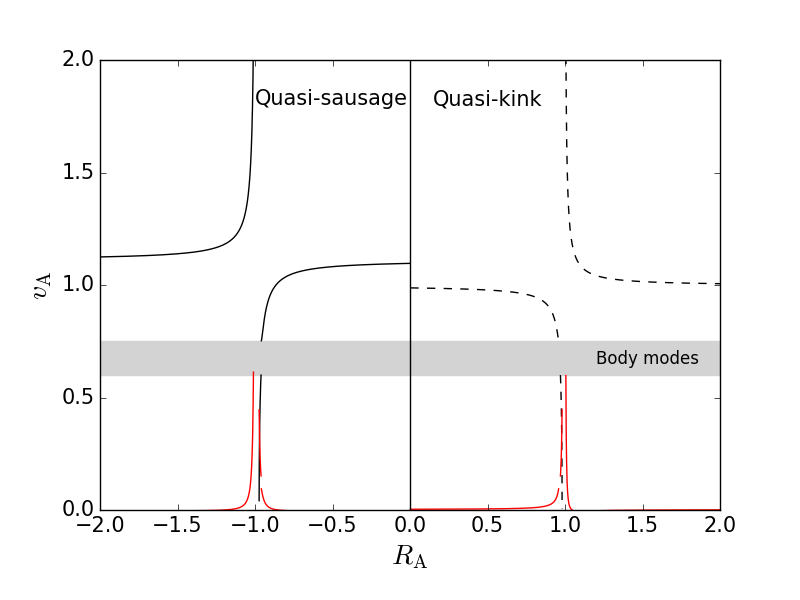
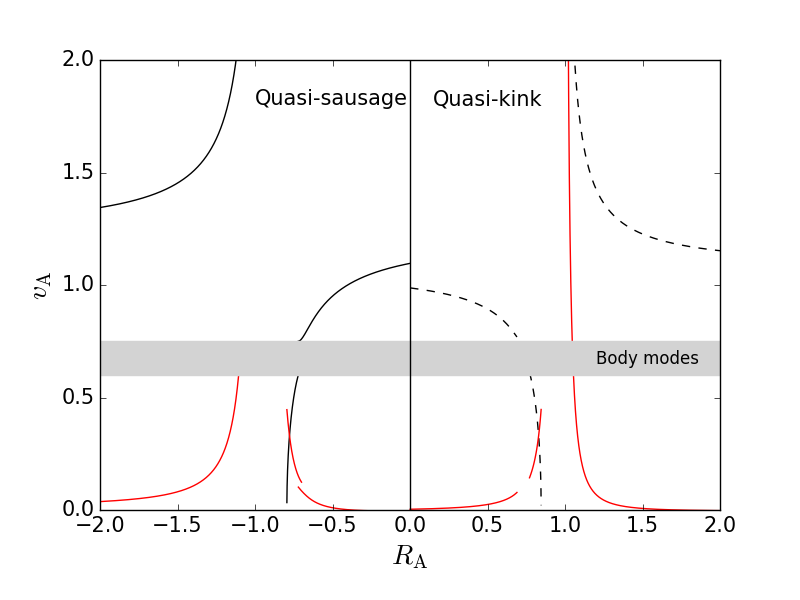
sorted out RA but need to do DM

diff --git a/sms-vA.py b/sms-vA.py
@@ -45,18 +45,15 @@ show_scatter_RA = False
 show_scatter_RA_2 = False
 show_scatter_DM = False
 show_scatter_DM_2 = False
-
-show_RA = True
-#show_DM = True
+#
+#show_RA = True
+show_DM = True
 #show_scatter_RA = True
 #show_scatter_RA_2 = True
 #show_scatter_DM = True
 #show_scatter_DM_2 = True
 
 ###############################################################################
-
-error_string_kink_saus = "mode must be 'kink' or 'saus', duh!"
-error_string_subscript = "subscript argument must be 1 or 2"
 
 def m0(W, vA):
     m0function = sc.sqrt((c0**2-W**2)*(vA**2-W**2)*((c0**2+vA**2)*(cT(vA)**2-W**2))**(-1))
@@ -70,19 +67,31 @@ def m2(W):
     m2function = sc.sqrt(1-W**2*c2**(-2))
     return m2function
 
+def lamb0(W, vA):
+    return -(vA**2-W**2)*1.j/(m0(W, vA)*W)
+
+def lamb1(W):
+    return R1*W*1.j/m1(W)
+    
+def lamb2(W):
+    return R2*W*1.j/m2(W)
+
+error_string_kink_saus = "mode must be 'kink' or 'saus', duh!"
+error_string_subscript = "subscript argument must be 1 or 2"
+
 def disp_rel_sym(W, K, vA, mode, subscript):
     if subscript == 1:
         if mode in kink_mode_options:
-            dispfunction = (vA**2 - W**2)*m1(W)*sc.tanh(m0(W,vA)*K) - R1*W**2*m0(W,vA)
+            dispfunction = lamb0(W, vA) * sc.tanh(m0(W, vA) * K) + lamb1(W)
         elif mode in saus_mode_options:
-            dispfunction = (vA**2 - W**2)*m1(W) - R1*W**2*m0(W,vA)*sc.tanh(m0(W,vA)*K)
+            dispfunction = lamb0(W, vA) + lamb1(W) * sc.tanh(m0(W, vA) * K)
         else:
             print(error_string_kink_saus)
     elif subscript == 2:
         if mode in kink_mode_options:
-            dispfunction = (vA**2 - W**2)*m2(W)*sc.tanh(m0(W,vA)*K) - R1*W**2*m0(W,vA)
+            dispfunction = lamb0(W, vA) * sc.tanh(m0(W, vA) * K) + lamb2(W)
         elif mode in saus_mode_options:
-            dispfunction = (vA**2 - W**2)*m2(W) - R1*W**2*m0(W,vA)*sc.tanh(m0(W,vA)*K)
+            dispfunction = lamb0(W, vA) + lamb2(W) * sc.tanh(m0(W, vA) * K)
         else:
             print(error_string_kink_saus)
     else:
@@ -90,63 +99,182 @@ def disp_rel_sym(W, K, vA, mode, subscript):
     return dispfunction
     
 def disp_rel_asym(W, K, vA):
-    return ((W**4 * m0(W,vA)**2 * R1 * R2 + (vA**2 - W**2)**2 * m1(W) * m2(W) -
-            0.5 * m0(W,vA) * W**2 * (vA**2 - W**2) * (R2 * m1(W) + R1 * m2(W)) *
-            (sc.tanh(m0(W,vA) * K) + (sc.tanh(m0(W,vA) * K))**(-1))) /
+    return ((W**4 * m0(W, vA)**2 * R1 * R2 + (vA**2 - W**2)**2 * m1(W) * m2(W) -
+            0.5 * m0(W, vA) * W**2 * (vA**2 - W**2) * (R2 * m1(W) + R1 * m2(W)) *
+            (sc.tanh(m0(W, vA) * K) + (sc.tanh(m0(W, vA) * K))**(-1))) /
             (vA**2 - W**2) * (c0**2 - W**2) * (cT(vA)**2 - W**2))
-
-def disp_rel_test(W, K, vA):
-    return disp_rel_sym(W, K, vA, 'saus',2) / disp_rel_sym(W, K, vA, 'saus',1) + disp_rel_sym(W, K, vA, 'kink',2) * disp_rel_sym(W, K, vA, 'kink',1)
-    
+            
 def amp_ratio(W, K, vA, mode):
     if mode in kink_mode_options:
-        ampfunction = m2(W)*disp_rel_sym(W,K,vA,'saus',1) / (m1(W)*disp_rel_sym(W,K,vA,'saus',2))
+        ampfunction = disp_rel_sym(W, K, vA, 'saus', 1) / disp_rel_sym(W, K, vA, 'saus', 2)
     elif mode in saus_mode_options:
-        ampfunction = - m2(W)*disp_rel_sym(W,K,vA,'kink',1) / (m1(W)*disp_rel_sym(W,K,vA,'kink',2))
+        ampfunction = - disp_rel_sym(W, K, vA, 'kink', 1) / disp_rel_sym(W, K, vA, 'kink', 2)
     else:
         print(error_string_kink_saus)
     return ampfunction
-    
+
 def amp_ratio_func(W, K, mode, vA, RA):
     return amp_ratio(W, K, vA, mode) - RA
-
+    
 def amp_ratio_2(W, K, vA, mode):
     if mode in kink_mode_options:
-        ampfunction = - m2(W)*disp_rel_sym(W,K,vA,'kink',1) / (m1(W)*disp_rel_sym(W,K,vA,'kink',2))
+        ampfunction = - disp_rel_sym(W,K,vA,'kink',1) / disp_rel_sym(W,K,vA,'kink',2)
     elif mode in saus_mode_options:
-        ampfunction = m2(W)*disp_rel_sym(W,K,vA,'saus',1) / (m1(W)*disp_rel_sym(W,K,vA,'saus',2))
+        ampfunction = disp_rel_sym(W,K,vA,'saus',1) / disp_rel_sym(W,K,vA,'saus',2)
     else:
         print(error_string_kink_saus)
     return ampfunction
     
 def amp_ratio_func_2(W, K, mode, vA, RA):
-    return amp_ratio_2(W, K, vA, mode) - RA
+    return amp_ratio_2(W, K, vA, mode) - RA    
     
 def min_pert_shift(W, K, vA, mode):
     if mode in kink_mode_options:
-        shiftfunction = (1 / m0(W,vA)) * np.arctanh(- disp_rel_sym(W,K,vA,'kink',1) / disp_rel_sym(W,K,vA,'saus',1))
+        shiftfunction = (1 / m0(W,vA)) * sc.arctanh(- disp_rel_sym(W,K,vA,'saus',1) / disp_rel_sym(W,K,vA,'kink',1))
     elif mode in saus_mode_options:
         # recall that arccoth(x) = arctanh(1/x)
-        shiftfunction = (1 / m0(W,vA)) * np.arctanh(- disp_rel_sym(W,K,vA,'saus',1) / disp_rel_sym(W,K,vA,'kink',1))
+        shiftfunction = (1 / m0(W,vA)) * sc.arctanh(- disp_rel_sym(W,K,vA,'kink',1) / disp_rel_sym(W,K,vA,'saus',1))
     else:
         print(error_string_kink_saus)
     return shiftfunction
     
 def min_pert_shift_func(W, K, mode, vA, DM):
-    return min_pert_shift(W, K, vA, mode) - DM
+    return min_pert_shift(W, K, vA, mode) - DM 
     
 def min_pert_shift_2(W, K, vA, mode):
     if mode in kink_mode_options:
-        shiftfunction = (1 / m0(W,vA)) * np.arctanh(disp_rel_sym(W,K,vA,'kink',2) / disp_rel_sym(W,K,vA,'saus',2))
+        shiftfunction = (1 / m0(W,vA)) * sc.arctanh(disp_rel_sym(W,K, vA,'saus',2) / disp_rel_sym(W,K, vA,'kink',2))
     elif mode in saus_mode_options:
         # recall that arccoth(x) = arctanh(1/x)
-        shiftfunction = (1 / m0(W,vA)) * np.arctanh(disp_rel_sym(W,K,vA,'saus',2) / disp_rel_sym(W,K,vA,'kink',2))
+        shiftfunction = (1 / m0(W, vA)) * sc.arctanh(disp_rel_sym(W,K, vA,'kink',2) / disp_rel_sym(W,K, vA,'saus',2))
     else:
         print(error_string_kink_saus)
     return shiftfunction
-    
+
 def min_pert_shift_func_2(W, K, mode, vA, DM):
-    return min_pert_shift_2(W, K, vA, mode) - DM
+    return min_pert_shift_2(W, K, vA, mode) - DM 
+
+
+
+
+
+
+
+
+
+
+
+
+
+
+
+
+
+
+
+
+
+
+
+
+
+
+
+
+
+
+#error_string_kink_saus = "mode must be 'kink' or 'saus', duh!"
+#error_string_subscript = "subscript argument must be 1 or 2"
+#
+#def m0(W, vA):
+#    m0function = sc.sqrt((c0**2-W**2)*(vA**2-W**2)*((c0**2+vA**2)*(cT(vA)**2-W**2))**(-1))
+#    return m0function
+#    
+#def m1(W):
+#    m1function = sc.sqrt(1-W**2*c2**(-2)*R1*R2**(-1))
+#    return m1function
+#
+#def m2(W):
+#    m2function = sc.sqrt(1-W**2*c2**(-2))
+#    return m2function
+#
+#def disp_rel_sym(W, K, vA, mode, subscript):
+#    if subscript == 1:
+#        if mode in kink_mode_options:
+#            dispfunction = (vA**2 - W**2)*m1(W)*sc.tanh(m0(W,vA)*K) - R1*W**2*m0(W,vA)
+#        elif mode in saus_mode_options:
+#            dispfunction = (vA**2 - W**2)*m1(W) - R1*W**2*m0(W,vA)*sc.tanh(m0(W,vA)*K)
+#        else:
+#            print(error_string_kink_saus)
+#    elif subscript == 2:
+#        if mode in kink_mode_options:
+#            dispfunction = (vA**2 - W**2)*m2(W)*sc.tanh(m0(W,vA)*K) - R1*W**2*m0(W,vA)
+#        elif mode in saus_mode_options:
+#            dispfunction = (vA**2 - W**2)*m2(W) - R1*W**2*m0(W,vA)*sc.tanh(m0(W,vA)*K)
+#        else:
+#            print(error_string_kink_saus)
+#    else:
+#        print(error_string_subscript)
+#    return dispfunction
+#    
+#def disp_rel_asym(W, K, vA):
+#    return ((W**4 * m0(W,vA)**2 * R1 * R2 + (vA**2 - W**2)**2 * m1(W) * m2(W) -
+#            0.5 * m0(W,vA) * W**2 * (vA**2 - W**2) * (R2 * m1(W) + R1 * m2(W)) *
+#            (sc.tanh(m0(W,vA) * K) + (sc.tanh(m0(W,vA) * K))**(-1))) /
+#            (vA**2 - W**2) * (c0**2 - W**2) * (cT(vA)**2 - W**2))
+#
+#def disp_rel_test(W, K, vA):
+#    return disp_rel_sym(W, K, vA, 'saus',2) / disp_rel_sym(W, K, vA, 'saus',1) + disp_rel_sym(W, K, vA, 'kink',2) * disp_rel_sym(W, K, vA, 'kink',1)
+#    
+#def amp_ratio(W, K, vA, mode):
+#    if mode in kink_mode_options:
+#        ampfunction = m2(W)*disp_rel_sym(W,K,vA,'saus',1) / (m1(W)*disp_rel_sym(W,K,vA,'saus',2))
+#    elif mode in saus_mode_options:
+#        ampfunction = - m2(W)*disp_rel_sym(W,K,vA,'kink',1) / (m1(W)*disp_rel_sym(W,K,vA,'kink',2))
+#    else:
+#        print(error_string_kink_saus)
+#    return ampfunction
+#    
+#def amp_ratio_func(W, K, mode, vA, RA):
+#    return amp_ratio(W, K, vA, mode) - RA
+#
+#def amp_ratio_2(W, K, vA, mode):
+#    if mode in kink_mode_options:
+#        ampfunction = - m2(W)*disp_rel_sym(W,K,vA,'kink',1) / (m1(W)*disp_rel_sym(W,K,vA,'kink',2))
+#    elif mode in saus_mode_options:
+#        ampfunction = m2(W)*disp_rel_sym(W,K,vA,'saus',1) / (m1(W)*disp_rel_sym(W,K,vA,'saus',2))
+#    else:
+#        print(error_string_kink_saus)
+#    return ampfunction
+#    
+#def amp_ratio_func_2(W, K, mode, vA, RA):
+#    return amp_ratio_2(W, K, vA, mode) - RA
+#    
+#def min_pert_shift(W, K, vA, mode):
+#    if mode in kink_mode_options:
+#        shiftfunction = (1 / m0(W,vA)) * np.arctanh(- disp_rel_sym(W,K,vA,'kink',1) / disp_rel_sym(W,K,vA,'saus',1))
+#    elif mode in saus_mode_options:
+#        # recall that arccoth(x) = arctanh(1/x)
+#        shiftfunction = (1 / m0(W,vA)) * np.arctanh(- disp_rel_sym(W,K,vA,'saus',1) / disp_rel_sym(W,K,vA,'kink',1))
+#    else:
+#        print(error_string_kink_saus)
+#    return shiftfunction
+#    
+#def min_pert_shift_func(W, K, mode, vA, DM):
+#    return min_pert_shift(W, K, vA, mode) - DM
+#    
+#def min_pert_shift_2(W, K, vA, mode):
+#    if mode in kink_mode_options:
+#        shiftfunction = (1 / m0(W,vA)) * np.arctanh(disp_rel_sym(W,K,vA,'kink',2) / disp_rel_sym(W,K,vA,'saus',2))
+#    elif mode in saus_mode_options:
+#        # recall that arccoth(x) = arctanh(1/x)
+#        shiftfunction = (1 / m0(W,vA)) * np.arctanh(disp_rel_sym(W,K,vA,'saus',2) / disp_rel_sym(W,K,vA,'kink',2))
+#    else:
+#        print(error_string_kink_saus)
+#    return shiftfunction
+#    
+#def min_pert_shift_func_2(W, K, mode, vA, DM):
+#    return min_pert_shift_2(W, K, vA, mode) - DM
     
 ###############################################################################
 
@@ -155,17 +283,17 @@ matplotlib.rc('font', **font)
 
 if show_RA == True:
     # Set up the data
-    RAmin = [0.9703, 1.005, 0., -2., -0.961, -0.97348]
-    RAmax = [0.9812, 2., 0.96, -1.01, 0., -0.9608]
+    RAmin = [1.01, 0.0, 0.77, -2., -0.7944, -0.7205]
+    RAmax = [2.0, 0.69, 0.847, -1.1, -0.7, 0.0]
     
-    RA_guess = [0.971, 1.2, 0.88, -1.1, -0.8, -0.96]
-    vA_guess = [0.55, 1.04, 0.9, 1.26, 1.04, 0.26]
+    RA_guess = [1.5, 0.5, 0.79, -1.5, -0.73, -0.5]
+    vA_guess = [1.23, 0.89, 0.56, 1.46, 0.55, 0.95]
     
-    step = [0.0001, 0.0005, 0.001, 0.001, 0.001, 0.00002]
+    step = [0.0005, 0.0005, 0.001, 0.001, 0.0001, 0.0001]
     
-    modes = [0,1]
+    modes = [0, 1]#[0,1]
     
-    branches = [3,3]
+    branches = [3, 3]#[3,3]
     
     styles = ['--'] * 3 + ['-'] * 3
 
@@ -182,11 +310,11 @@ if show_RA == True:
             plt.plot(RA_values, disp_rel_asym(W, K, np.real(root_array)), color='red')
             
     ax = plt.gca()
-    ax.fill_between((-2., 2.), (W, W), [W * c0 / (np.sqrt(c0**2 - W**2))] * 2, color='lightgray')
+    ax.fill_between((-2., 2.), (W, W), [W * c0 / (np.sqrt(c0**2 - W**2))] * 2, color='lightgray', zorder=2.5)
     ax.set_ylabel(r'$v_\mathrm{A}$', fontsize = 20)
     ax.set_xlabel(r'$R_\mathrm{A}$', fontsize = 20)
     plt.ylim([0.,2.])
-    plt.plot([0.,0.], [0., 2.], color='black', linestyle='-')
+    plt.plot([0.,0.], [0., 2.], color='black', linestyle='-', zorder=3)
     ax.annotate('Body modes', xy=(1.2, 0.65), xycoords='data', annotation_clip=False, fontsize=12)
     ax.annotate('Quasi-kink', xy=(0.15, 1.8), xycoords='data', annotation_clip=False, fontsize=15)
     ax.annotate('Quasi-sausage', xy=(-1., 1.8), xycoords='data', annotation_clip=False, fontsize=15)
@@ -198,17 +326,17 @@ if show_RA == True:
 
 if show_DM == True:
     # Set up the data
-    DMmin = [-0.975, -0.999]
-    DMmax = [1., 1.]
+    DMmin = [-0.6, -0.6]
+    DMmax = [-0.4, -0.4]
     
     DM_guess = [-0.5, -0.5]
-    vA_guess = [1.29, 0.9]
+    vA_guess = [1.29, 0.89]
     
     step = [0.001, 0.001]
     
-    modes = [0,1]
+    modes = [1,1]
     
-    branches = [1,1]
+    branches = [2,0]
     
     styles = ['--', '-']
     
@@ -226,7 +354,7 @@ if show_DM == True:
     ax = plt.gca()
     ax.fill_between((-1.2, -1.), (0.,0.), (2.,2.), color='lightgray')
     ax.fill_between((1., 1.2), (0.,0.), (2.,2.), color='lightgray')
-    ax.fill_between((-2., 2.), (W, W), [W * c0 / (np.sqrt(c0**2 - W**2))] * 2, color='lightgray')
+#    ax.fill_between((-2., 2.), (W, W), [W * c0 / (np.sqrt(c0**2 - W**2))] * 2, color='lightgray')
     ax.set_ylabel(r'$v_\mathrm{A}$', fontsize = 20)
     ax.set_xlabel(r'$\Delta_\mathrm{min} / x_0$', fontsize = 20)
     plt.ylim([0.,2.])
@@ -247,8 +375,8 @@ if show_scatter_RA == True:
     
     RAmin = -2.
     RAmax = 2.
-    vAmin = 1.5
-    vAmax = 0.
+    vAmin = 0.
+    vAmax = 2.
     
     RA_scatter_vals = np.linspace(RAmin, RAmax, NRA)
     vA_scatter_vals = np.linspace(vAmin, vAmax, NvA)
@@ -262,6 +390,7 @@ if show_scatter_RA == True:
         a=0
         for i in range(0,NRA):
             for j in range(0,NvA):
+                print('vA = ' + str(vA_scatter_vals[i]))
                 if abs(amp_ratio_func(W, K, mode, vA_scatter_vals[i], RA_scatter_vals[j])) < 0.01:
                     vA[a] = vA_scatter_vals[i]
                     RA[a] = RA_scatter_vals[j]
@@ -276,8 +405,8 @@ if show_scatter_RA_2 == True:
     
     RAmin = -2.
     RAmax = 2.
-    vAmin = 1.5
-    vAmax = 0.
+    vAmin = 0.
+    vAmax = 2.
     
     RA_scatter_vals = np.linspace(RAmin, RAmax, NRA)
     vA_scatter_vals = np.linspace(vAmin, vAmax, NvA)
@@ -306,8 +435,8 @@ if show_scatter_DM == True:
     
     DMmin = -1.2
     DMmax = 1.2
-    vAmin = 2.5
-    vAmax = 0.
+    vAmin = 0.
+    vAmax = 2.5
     
     DM_scatter_vals = np.linspace(DMmin, DMmax, NDM)
     vA_scatter_vals = np.linspace(vAmin, vAmax, NvA)

diff --git a/sms.py b/sms.py
@@ -36,10 +36,10 @@ for mode in mode_options:
     if 'saus' in mode:
         saus_mode_options.append(mode)
 
-mode = mode_options[1]
+mode = mode_options[0]
 
-plot_variable = 'amp-ratio'
-#plot_variable = 'amp-ratio-2'
+#plot_variable = 'amp-ratio'
+plot_variable = 'amp-ratio-2'
 #plot_variable = 'min-pert-shift'
 #plot_variable = 'min-pert-shift-2'
 #plot_variable = 'W'
